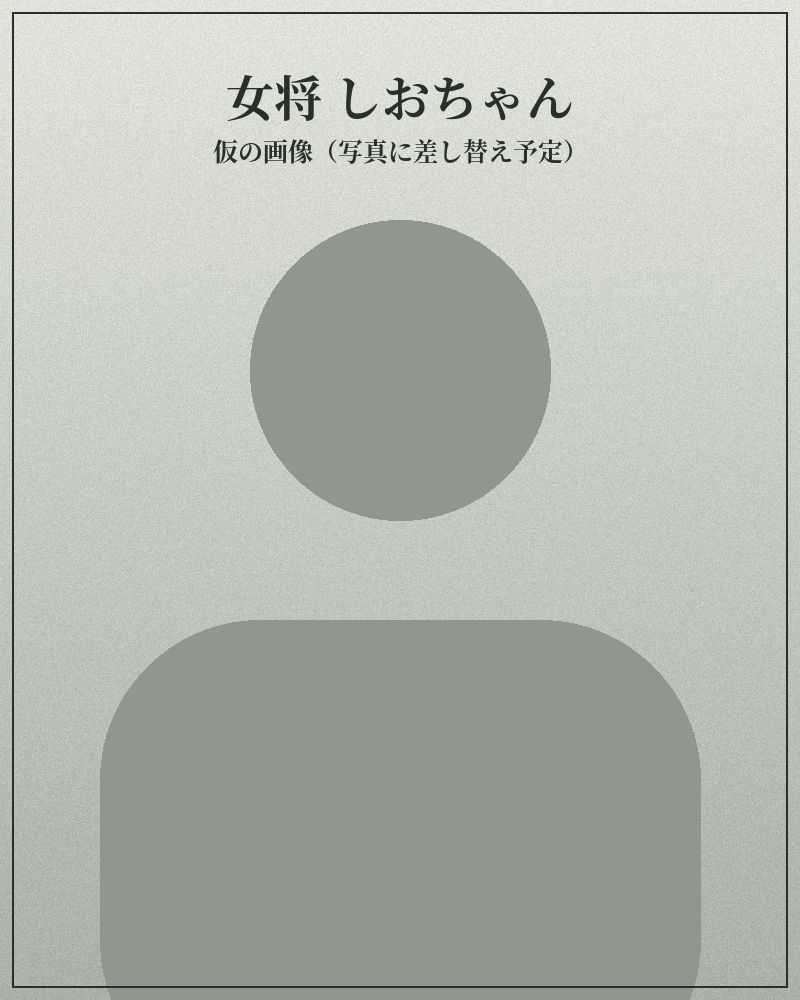
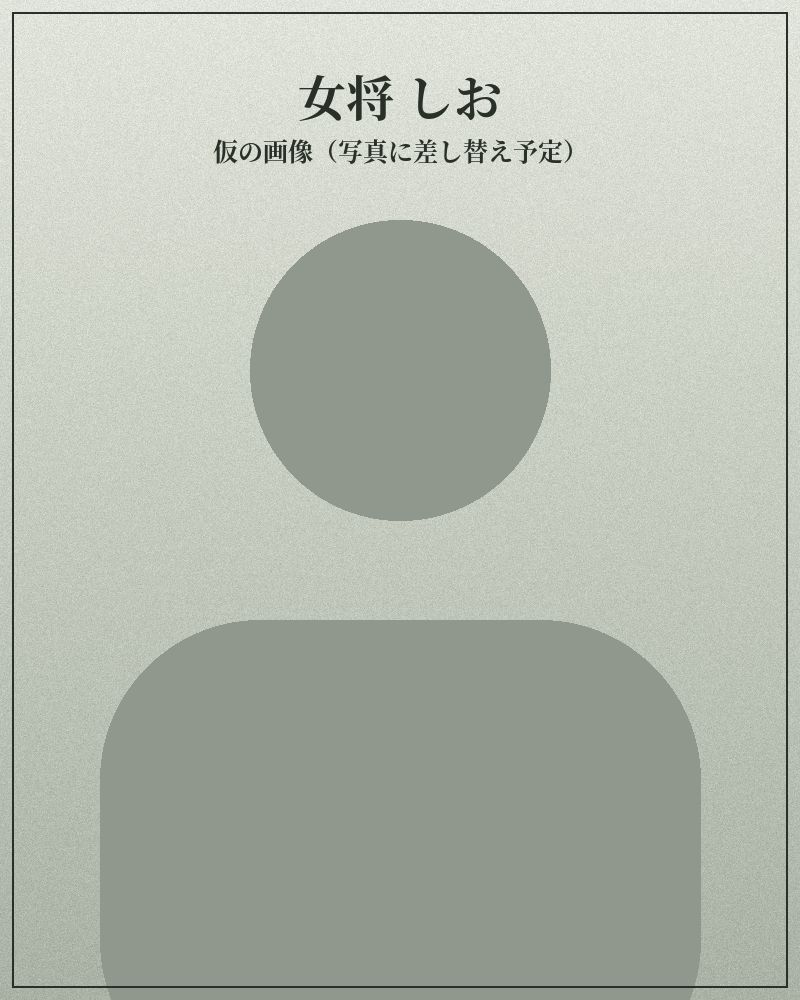
村について：本文の言い回し、富山商会の段を追加、言いかえ表に2行追加、女将の名前、村をめぐるの順、フッター中央そろえ
Claude-Session: https://claude.ai/code/session_01AcP4oUDo3NH2W1DBgd9BRx

Changed region(s): [[0.2812, 0.062, 0.7188, 0.124]]

diff --git a/about.html b/about.html
@@ -9,7 +9,7 @@
 <link rel="preconnect" href="https://fonts.googleapis.com">
 <link rel="preconnect" href="https://fonts.gstatic.com" crossorigin>
 <link rel="stylesheet" href="https://fonts.googleapis.com/css2?family=DotGothic16&family=Shippori+Mincho+B1:wght@600;800&family=Zen+Kaku+Gothic+New:wght@400;500;700&display=swap">
-<link rel="stylesheet" href="style.css?v=20261109e">
+<link rel="stylesheet" href="style.css?v=20261109f">
 </head>
 <body>
 <div class="wrap">
@@ -34,17 +34,24 @@
 <section>
   <div class="wrap">
     <div class="sec-head"><h2>村の音</h2><p>NPO法人 村の音は、天空米の生産者です。</p></div>
-    <div class="oto">
+    <div class="oto oto-solo">
       <div class="oto-text">
-        <p>八尾の山里では、農業の担い手不足、後継者不足、過疎化が進んでいます。田んぼの手入れが行き届かなくなると、水源や里山の景観も守れなくなります。</p>
-        <p>村の音は、この里山を「守る対象」ではなく「暮らす場所」として取り戻すために生まれたNPO法人です。地域でいちばん高い場所にある田んぼで、農薬も肥料も使わずに天空米を育て、村の拠点をつなぎ、都会で疲れた人が自然の中で回復できる農業体験を開きます。</p>
+        <p>八尾の山里では、農業の担い手不足、後継者不足、過疎化が進んでいます。田んぼの手入れが行き届かなくなると、水源や美しい里山の景観も守れなくなります。</p>
+        <p>村の音は、この里山を「守る対象」ではなく、私たちが息づく「暮らす場所」として取り戻すために生まれたNPO法人です。地域でいちばん高い場所にある田んぼで、農薬も肥料も使わずに天空米を育て、村の拠点をつなぎ、都会で疲れた人が自然の中で回復できる農業体験を開きます。</p>
         <p class="oto-copy">一粒のお米から、地域の未来をつくる。</p>
       </div>
-      <dl class="trio">
-        <div><dt>村の音</dt><dd>天空米をつくり、体験の受付と仲間づくりを担うNPO法人。会員として里山を応援する仕組みも準備しています。</dd></div>
-        <div><dt>富山商会</dt><dd>草刈りや雑草管理、墓地の清掃・維持管理など、地域の環境を守る仕事を続けてきた会社。除草剤に頼らない雑草管理を提案・実施し、数年前から無農薬の米づくりに取り組んでいます。天空米の販売を担います。</dd></div>
-        <div><dt>深井 宣光</dt><dd>SDGsについて出版・発信を続けてきたアドバイザー。今年から自ら田んぼに立ち、「SDGsを語る」から「実践する」へ。</dd></div>
-      </dl>
+    </div>
+  </div>
+</section>
+
+<section>
+  <div class="wrap">
+    <div class="sec-head"><h2>富山商会</h2><p>富山商会は、天空米の販売者です。</p></div>
+    <div class="oto oto-solo">
+      <div class="oto-text">
+        <p>草刈りや雑草管理、墓地の清掃・維持管理など、地域の環境を守る仕事を続けてきた会社。除草剤に頼らない雑草管理を提案・実現しています。</p>
+        <p>農薬・化学肥料を使わない米づくりの技術支援と天空米の販売を担います。</p>
+      </div>
     </div>
   </div>
 </section>
@@ -74,6 +81,8 @@
         <tr><th>もったいない</th><td>ものの命を使い切る。わらは縄や堆肥に、もみがらは燻炭に。</td><td>12 つくる責任 つかう責任</td></tr>
         <tr><th>三方よし</th><td>売り手よし、買い手よし、世間よし。商いは地域のためにもなってこそ。</td><td>8 働きがいと経済成長 ・ 12 つくる責任 つかう責任</td></tr>
         <tr><th>山の神・田の神</th><td>自然から恵みを借りて生きているという畏れと感謝。祭りや行事として受け継がれてきた。</td><td>13 気候変動 ・ 15 陸の豊かさ</td></tr>
+        <tr><th>百姓</th><td>季節ごとに複数の生業を掛け持ちし、不作や気候のリスクを分散させるしなやかな経済。</td><td>8 働きがいと経済成長 ・ 12 つくる責任 つかう責任</td></tr>
+        <tr><th>旬と身土不二</th><td>その土地、その季節にとれるものを無理なくいただき、身体の調子を合わせる。</td><td>3 健康と福祉 ・ 12 つくる責任 つかう責任</td></tr>
       </tbody>
     </table></div>
     <p class="cycle-note">村がめざす「自然の一部として生きる」は、この日本流のSDGsを、暮らしと体験として取り戻すことです。</p>
@@ -85,7 +94,7 @@
     <div class="sec-head"><h2>村の人</h2></div>
     <div class="people">
       <div class="person"><img class="pphoto" src="photos/person-sonchou.jpg" alt="村長の写真（仮）" loading="lazy"><div class="role">村長</div><h3>tatooroo</h3><p>富山商会の代表で、村門のマスター。音楽を通じて世界中のミュージシャンとつながる。草刈りと環境管理の仕事から田んぼと里山を守り、村の田畑と山を束ねて天空米を届ける。</p></div>
-      <div class="person"><img class="pphoto" src="photos/person-okami.jpg" alt="女将の写真（仮）" loading="lazy"><div class="role">女将</div><h3>しおちゃん</h3><p>村の顔として、訪れた人を迎える。村門と村宿のもてなしを担う。</p></div>
+      <div class="person"><img class="pphoto" src="photos/person-okami.jpg?v=2" alt="女将の写真（仮）" loading="lazy"><div class="role">女将</div><h3>しお</h3><p>村の顔として、訪れた人を迎える。村門と村宿のもてなしを担う。</p></div>
       <div class="person"><img class="pphoto" src="photos/person-fukai.jpg" alt="アドバイザーの写真（仮）" loading="lazy"><div class="role">アドバイザー</div><h3>深井 宣光</h3><p>SDGsについて出版・発信を続けてきた。今年から田んぼに立ち、理念を暮らしの実践へつなぐ役を担う。</p></div>
     </div>
   </div>
@@ -96,8 +105,8 @@
     <div class="sec-head"><h2>村をめぐる</h2></div>
     <div class="next">
       <a class="game" href="map.html"><div class="k">あそぶ</div><h3>村の地図</h3><p>4人の仲間と村を歩き、田んぼの一年をたどり、山で獲り、船で富山湾へ出る。わりびきけんが当たることも。</p><span class="go">地図をひらく ▶</span></a>
-      <a href="activity.html"><div class="k">体験する</div><h3>体験</h3><p>機械を使わない米づくり、農業ロボット、海釣り、渓流釣り、狩猟体験。</p><span class="go">体験を見る →</span></a>
       <a href="index.html"><div class="k">買う</div><h3>天空米</h3><p>山の上の田んぼで、農薬も肥料も使わずに育てたお米。</p><span class="go">お買い物へ →</span></a>
+      <a href="activity.html"><div class="k">体験する</div><h3>体験</h3><p>機械を使わない米づくり、農業ロボット、海釣り、渓流釣り、狩猟体験。</p><span class="go">体験を見る →</span></a>
     </div>
   </div>
 </section>

diff --git a/index.html b/index.html
@@ -9,7 +9,7 @@
 <link rel="preconnect" href="https://fonts.googleapis.com">
 <link rel="preconnect" href="https://fonts.gstatic.com" crossorigin>
 <link rel="stylesheet" href="https://fonts.googleapis.com/css2?family=DotGothic16&family=Shippori+Mincho+B1:wght@600;800&family=Zen+Kaku+Gothic+New:wght@400;500;700&display=swap">
-<link rel="stylesheet" href="style.css?v=20261109e">
+<link rel="stylesheet" href="style.css?v=20261109f">
 </head>
 <body>
 <div class="wrap">
@@ -138,7 +138,7 @@
     <div class="foot-r">試作版（掲載内容は確認中のものを含みます）<span class="credit">制作・運営　<a href="kanri.html">照櫟VorDX</a></span></div>
   </footer>
 </div>
-<script src="config.js?v=20261109e"></script>
+<script src="config.js?v=20261109f"></script>
 <script>
 (function(){
 const YM=(d=>d.getFullYear()+'-'+(d.getMonth()+1))(new Date());

diff --git a/checkout.html b/checkout.html
@@ -9,7 +9,7 @@
 <link rel="preconnect" href="https://fonts.googleapis.com">
 <link rel="preconnect" href="https://fonts.gstatic.com" crossorigin>
 <link rel="stylesheet" href="https://fonts.googleapis.com/css2?family=DotGothic16&family=Shippori+Mincho+B1:wght@600;800&family=Zen+Kaku+Gothic+New:wght@400;500;700&display=swap">
-<link rel="stylesheet" href="style.css?v=20261109e">
+<link rel="stylesheet" href="style.css?v=20261109f">
 </head>
 <body>
 <div class="wrap">
@@ -74,7 +74,7 @@
     <div class="foot-r">試作版（掲載内容は確認中のものを含みます）<span class="credit">制作・運営　<a href="kanri.html">照櫟VorDX</a></span></div>
   </footer>
 </div>
-<script src="config.js?v=20261109e"></script>
+<script src="config.js?v=20261109f"></script>
 <script>
 (function(){
 const YM=(d=>d.getFullYear()+'-'+(d.getMonth()+1))(new Date());

diff --git a/kanri.html b/kanri.html
@@ -8,7 +8,7 @@
 <link rel="preconnect" href="https://fonts.googleapis.com">
 <link rel="preconnect" href="https://fonts.gstatic.com" crossorigin>
 <link rel="stylesheet" href="https://fonts.googleapis.com/css2?family=Shippori+Mincho+B1:wght@600;800&family=Zen+Kaku+Gothic+New:wght@400;500;700&display=swap">
-<link rel="stylesheet" href="style.css?v=20261109e">
+<link rel="stylesheet" href="style.css?v=20261109f">
 <style>
 .k-top{display:flex;justify-content:space-between;align-items:center;gap:12px;flex-wrap:wrap;padding-block:16px;border-bottom:1px solid var(--line)}
 .k-top .brand small{margin-left:.6em}
@@ -132,7 +132,7 @@
 </div>
 <div class="toast" id="toast" hidden></div>
 
-<script src="config.js?v=20261109e"></script>
+<script src="config.js?v=20261109f"></script>
 <script>
 (function(){
 const API=(window.TENKU&&TENKU.api||'')+'/tenkumai-admin';

diff --git a/style.css b/style.css
@@ -379,3 +379,11 @@ a.checkout[aria-disabled="true"]{background:var(--line);color:var(--muted);curso
 .steps-season .sbox{justify-content:center}
 .steps-season .sbox .w{min-height:2.44em;display:flex;align-items:center;justify-content:center}
 .steps-season .sub{align-self:stretch}
+
+/* 村の音・富山商会：本文だけの段 */
+.oto-solo{grid-template-columns:minmax(0,1fr)}
+.oto-solo .oto-text{max-width:46em}
+/* フッター：中央そろえ */
+footer{flex-direction:column;align-items:center;text-align:center;gap:10px}
+footer .foot-r{text-align:center;margin-left:0}
+footer .credit{margin-top:6px}

diff --git a/map.html b/map.html
@@ -9,7 +9,7 @@
 <link rel="preconnect" href="https://fonts.googleapis.com">
 <link rel="preconnect" href="https://fonts.gstatic.com" crossorigin>
 <link rel="stylesheet" href="https://fonts.googleapis.com/css2?family=DotGothic16&family=Shippori+Mincho+B1:wght@600;800&family=Zen+Kaku+Gothic+New:wght@400;500;700&display=swap">
-<link rel="stylesheet" href="style.css?v=20261109e">
+<link rel="stylesheet" href="style.css?v=20261109f">
 </head>
 <body class="page-map">
 <div class="wrap">

diff --git a/activity.html b/activity.html
@@ -9,7 +9,7 @@
 <link rel="preconnect" href="https://fonts.googleapis.com">
 <link rel="preconnect" href="https://fonts.gstatic.com" crossorigin>
 <link rel="stylesheet" href="https://fonts.googleapis.com/css2?family=DotGothic16&family=Shippori+Mincho+B1:wght@600;800&family=Zen+Kaku+Gothic+New:wght@400;500;700&display=swap">
-<link rel="stylesheet" href="style.css?v=20261109e">
+<link rel="stylesheet" href="style.css?v=20261109f">
 </head>
 <body>
 <div class="wrap">
